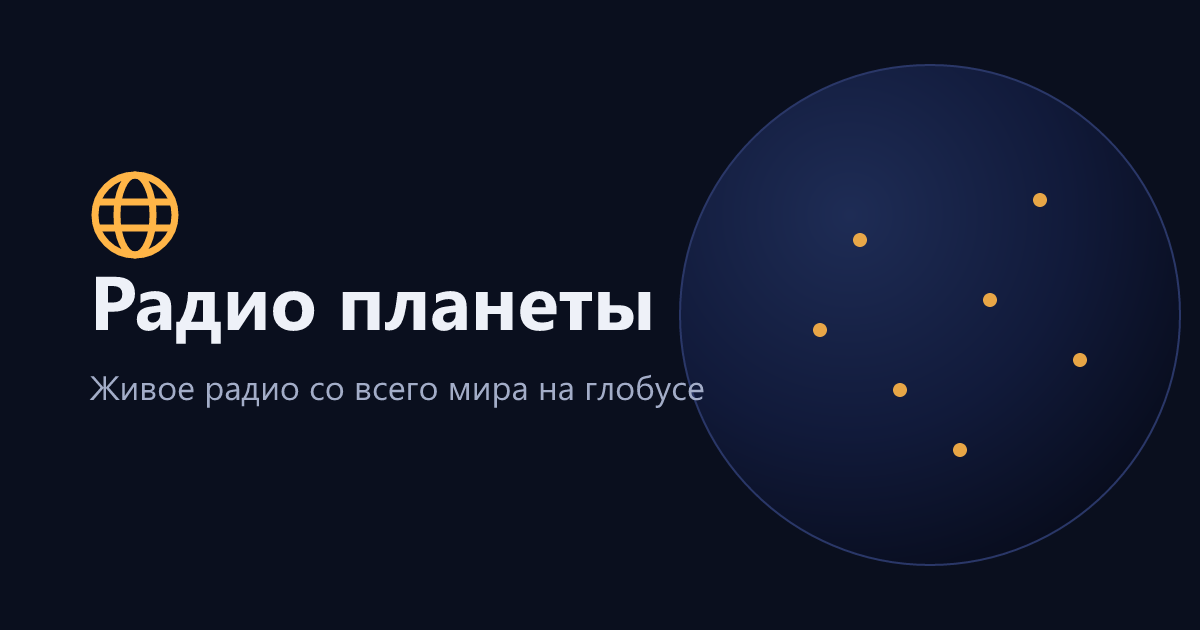
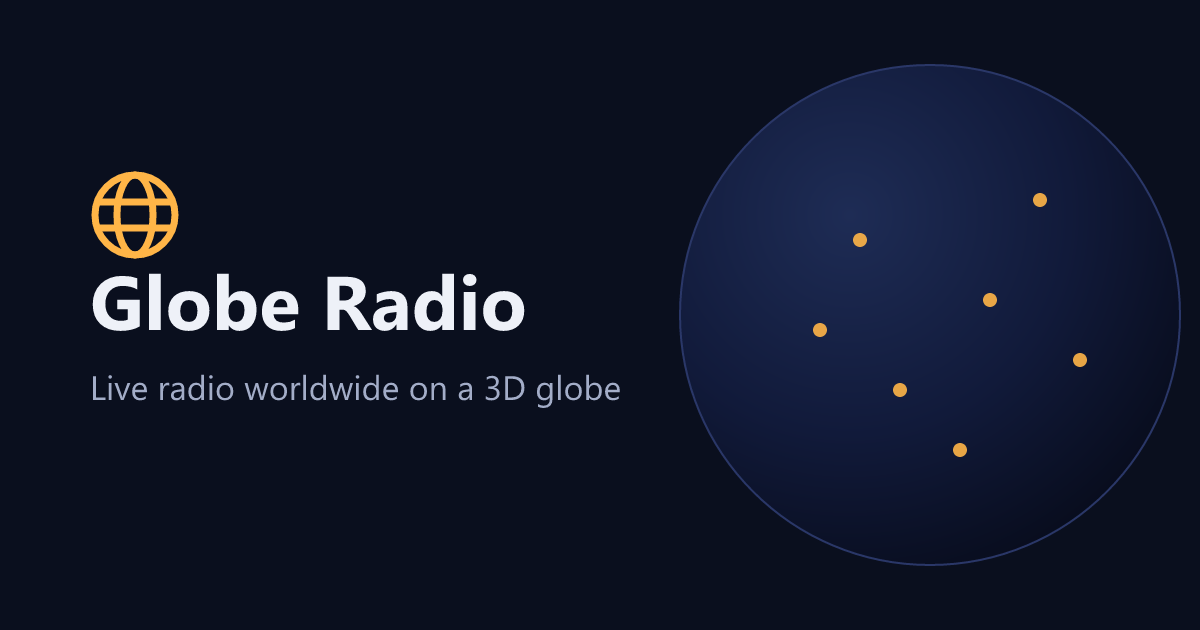
feat(i18n): English-only production version (Globe Radio)

Changed region(s): [[0.0617, 0.4222, 0.555, 0.5429], [0.0617, 0.573, 0.5858, 0.6635]]

diff --git a/index.html b/index.html
@@ -1,5 +1,5 @@
 <!doctype html>
-<html lang="ru" dir="ltr">
+<html lang="en" dir="ltr">
 <head>
   <meta charset="utf-8">
   <meta name="viewport" content="width=device-width, initial-scale=1, interactive-widget=resizes-content">
@@ -10,11 +10,11 @@
   <meta name="mobile-web-app-capable" content="yes">
   <meta name="apple-mobile-web-app-capable" content="yes">
   <meta name="apple-mobile-web-app-status-bar-style" content="black-translucent">
-  <meta name="apple-mobile-web-app-title" content="Радио планеты">
-  <meta name="description" content="Крутите глобус и слушайте живое радио из любого города мира">
+  <meta name="apple-mobile-web-app-title" content="Globe Radio">
+  <meta name="description" content="Spin a 3D globe and listen to 37,000 live radio stations from every country and city in the world. Free, no sign-up: tap a dot and the stream starts.">
   <meta property="og:type" content="website">
-  <meta property="og:title" content="Радио планеты">
-  <meta property="og:description" content="Крутите глобус и слушайте живое радио из любого города мира">
+  <meta property="og:title" content="Globe Radio — Live Radio Stations Worldwide on a 3D Globe">
+  <meta property="og:description" content="Spin a 3D globe and listen to 37,000 live radio stations from every country and city in the world. Free, no sign-up: tap a dot and the stream starts.">
   <meta property="og:image" content="%VITE_SITE_URL%/og.png">
   <meta property="og:image:width" content="1200">
   <meta property="og:image:height" content="630">
@@ -22,7 +22,7 @@
   <link rel="preconnect" href="https://fonts.googleapis.com">
   <link rel="preconnect" href="https://fonts.gstatic.com" crossorigin>
   <link rel="stylesheet" href="https://fonts.googleapis.com/css2?family=Unbounded:wght@500;700&family=Golos+Text:wght@400;500;600&display=swap">
-  <title></title>
+  <title>Globe Radio — Listen to Live Radio Stations Worldwide on a 3D Globe</title>
 </head>
 <body>
   <div id="app"></div>

diff --git a/tests/en-locale.test.ts b/tests/en-locale.test.ts
@@ -1,0 +1,32 @@
+import { readFileSync } from 'node:fs';
+import { expect, test } from 'vitest';
+import en from '../locales/en.json';
+import ru from '../locales/ru.json';
+import { DEFAULT_LOCALE, SUPPORTED_LOCALES } from '../src/app/config';
+import { createI18n } from '../src/i18n/i18n';
+
+const CYRILLIC = /[Ѐ-ӿ]/;
+
+test('production is English only', () => {
+  expect([...SUPPORTED_LOCALES]).toEqual(['en']);
+  expect(DEFAULT_LOCALE).toBe('en');
+});
+
+test('en.json has every key of ru.json and no Cyrillic', () => {
+  expect(Object.keys(en).sort()).toEqual(Object.keys(ru).sort());
+  expect(CYRILLIC.test(JSON.stringify(en))).toBe(false);
+  expect(en['app.name']).toBe('Globe Radio');
+});
+
+test('English plurals', () => {
+  const i18n = createI18n('en', en);
+  expect(i18n.t('stations.count', { count: 1 })).toBe('1 station');
+  expect(i18n.t('stations.count', { count: 2 })).toBe('2 stations');
+  expect(i18n.t('learn.countries', { count: 21 })).toBe('21 countries');
+});
+
+test('index.html is English: lang, no Cyrillic', () => {
+  const html = readFileSync('index.html', 'utf8');
+  expect(html).toContain('<html lang="en"');
+  expect(CYRILLIC.test(html)).toBe(false);
+});

diff --git a/src/app/main.ts b/src/app/main.ts
@@ -1,4 +1,4 @@
-import ru from '../../locales/ru.json';
+import en from '../../locales/en.json';
 import { loadPlaces } from '../data/places';
 import { createShardStore } from '../data/shards';
 import { applyDirection, createI18n, resolveLocale, type Messages } from '../i18n/i18n';
@@ -29,7 +29,7 @@ import { showActionToast } from '../ui/toast';
 import { startApp } from './app';
 import { DEFAULT_LOCALE, SUPPORTED_LOCALES } from './config';
 
-const catalogs: Record<string, Messages> = { ru };
+const catalogs: Record<string, Messages> = { en };
 const storage = safeStorage();
 const locale = resolveLocale(location.search, storage, navigator.languages, SUPPORTED_LOCALES, DEFAULT_LOCALE);
 const i18n = createI18n(locale, catalogs[locale]);
@@ -57,7 +57,7 @@ const card = createPlaceCard(refs.placeCard, refs.stage, {
   i18n,
   storage,
   flagUrl,
-  findArticle: (info) => findArticle(info, fetch, wikiCache),
+  findArticle: (info) => findArticle(info, fetch, wikiCache, i18n.locale === 'ru' ? 'ru' : 'en'),
   now: () => new Date(),
   userOffset: () => -new Date().getTimezoneOffset(),
 });

diff --git a/scripts/og-image.ts b/scripts/og-image.ts
@@ -12,8 +12,8 @@ const svg = `<svg xmlns="http://www.w3.org/2000/svg" width="1200" height="630" v
   <g transform="translate(90 170)" fill="none" stroke="#FFB547" stroke-width="7" stroke-linecap="round">
     <circle cx="45" cy="45" r="40"/><ellipse cx="45" cy="45" rx="18" ry="40"/><path d="M8 32h74M8 58h74"/>
   </g>
-  <text x="90" y="330" font-family="Segoe UI, Arial, sans-serif" font-size="76" font-weight="700" fill="#EEF1F8">Радио планеты</text>
-  <text x="90" y="400" font-family="Segoe UI, Arial, sans-serif" font-size="34" fill="#A3ADC8">Живое радио со всего мира на глобусе</text>
+  <text x="90" y="330" font-family="Segoe UI, Arial, sans-serif" font-size="76" font-weight="700" fill="#EEF1F8">Globe Radio</text>
+  <text x="90" y="400" font-family="Segoe UI, Arial, sans-serif" font-size="34" fill="#A3ADC8">Live radio worldwide on a 3D globe</text>
 </svg>`;
 
 const png = new Resvg(svg, { font: { loadSystemFonts: true } }).render().asPng();

diff --git a/src/place-card/wiki.ts b/src/place-card/wiki.ts
@@ -68,7 +68,16 @@ async function ruTitleFor(enTitle: string, fetchFn: typeof fetch, cache: WikiCac
   return ru;
 }
 
-export async function findArticle(info: Pick<PlaceInfo, 'wikiRu' | 'wikiEn'>, fetchFn: typeof fetch, cache: WikiCache): Promise<WikiResult> {
+export async function findArticle(info: Pick<PlaceInfo, 'wikiRu' | 'wikiEn'>, fetchFn: typeof fetch, cache: WikiCache, prefer: Lang = 'ru'): Promise<WikiResult> {
+  if (prefer === 'en') {
+    if (!info.wikiEn) return { summary: null, link: null };
+    try {
+      const s = await summary('en', info.wikiEn, fetchFn, cache);
+      return s ? { summary: s, link: s.url } : { summary: null, link: articleUrl('en', info.wikiEn) };
+    } catch {
+      return { summary: null, link: articleUrl('en', info.wikiEn) };
+    }
+  }
   let fallback: string | null = info.wikiRu ? articleUrl('ru', info.wikiRu) : info.wikiEn ? articleUrl('en', info.wikiEn) : null;
   const tried = new Set<string>();
   const tryRu = async (title: string) => {

diff --git a/tests/wiki.test.ts b/tests/wiki.test.ts
@@ -123,3 +123,11 @@ test('Wikimedia thumbnails from any wikimedia.org host are accepted (thumb.wikim
 test('Russian stress marks are removed from the text', () => {
   expect(trimSentences('Лиссабо́н — столица. Герма́ния рядом.')).toBe('Лиссабон — столица. Германия рядом.');
 });
+
+test('English interface: the English article first, no Russian lookup', async () => {
+  const f = wikiFetch({ 'en.wikipedia.org/api/rest_v1/page/summary/Lisbon': () => json(summary('Lisbon', 'Lisbon is the capital of Portugal.')) });
+  const r = await findArticle({ wikiRu: 'Лиссабон', wikiEn: 'Lisbon' }, f, createWikiCache(null), 'en');
+  expect(r.summary).toMatchObject({ lang: 'en', title: 'Lisbon' });
+  expect(r.link).toBe(articleUrl('en', 'Lisbon'));
+  expect((f.mock.calls as unknown[][]).some(([u]) => String(u).includes('ru.wikipedia.org'))).toBe(false);
+});

diff --git a/src/app/app.ts b/src/app/app.ts
@@ -464,7 +464,8 @@ export async function startApp(d: AppDeps): Promise<AppHandle> {
   function applyLearn(code: string | null) {
     learnCode = code;
     const entry = code ? languages.find((e) => e.code === code) ?? null : null;
-    langPrep = entry ? prepositional(lowerFirst(entry.name, i18n.locale)) : '';
+    // Russian needs the prepositional case; other languages use the language name as is ("in Spanish").
+    langPrep = entry ? (i18n.locale === 'ru' ? prepositional(lowerFirst(entry.name, i18n.locale)) : entry.name) : '';
     if (base) layer = layered(base, code ? createClusterer(places, (p) => p.langs?.[code] ?? 0) : null);
     view?.refresh();
     picker?.update();

diff --git a/src/pwa/manifest.ts b/src/pwa/manifest.ts
@@ -1,14 +1,14 @@
-import ru from '../../locales/ru.json';
+import en from '../../locales/en.json';
 
 export const THEME_COLOR = '#0A0F1E';
 
-// Web app manifest; the app name comes from the one config (locales/ru.json, key app.name).
+// Web app manifest; the app name comes from the one config (locales/en.json, key app.name).
 export function buildManifest(base: string) {
   return {
-    name: ru['app.name'],
-    short_name: ru['app.name'],
-    description: ru['app.description'],
-    lang: 'ru',
+    name: en['app.name'],
+    short_name: en['app.name'],
+    description: en['app.description'],
+    lang: 'en',
     dir: 'ltr' as const,
     start_url: base,
     scope: base,

diff --git a/tests/pwa-manifest.test.ts b/tests/pwa-manifest.test.ts
@@ -7,7 +7,7 @@ const pngSize = (path: string) => { const b = readFileSync(path); return [b.read
 test('manifest: name from the one config, standalone, dark theme, scope = site path', () => {
   const m = buildManifest('/globe-radio/');
   expect(m).toMatchObject({
-    name: 'Радио планеты', short_name: 'Радио планеты', lang: 'ru', display: 'standalone', orientation: 'portrait',
+    name: 'Globe Radio', short_name: 'Globe Radio', lang: 'en', display: 'standalone', orientation: 'portrait',
     start_url: '/globe-radio/', scope: '/globe-radio/', theme_color: THEME_COLOR, background_color: THEME_COLOR,
   });
   expect(THEME_COLOR).toBe('#0A0F1E');

diff --git a/tests/app.test.ts b/tests/app.test.ts
@@ -803,3 +803,11 @@ test('review: picking the playing place or station again reveals the swiped-away
   await app.selectPlace(lisbon);
   expect(reveal).toHaveBeenCalled();
 });
+
+test('English interface: learn mode says "Next in English" (no Russian cases)', async () => {
+  const en = (await import('../locales/en.json')).default;
+  const i18nEn = createI18n('en', en);
+  const app = await startApp({ ...deps, i18n: i18nEn, refs: renderShell(document.getElementById('app')!, i18nEn) });
+  app.learn('en');
+  expect(document.querySelector('.pb__next')!.textContent).toBe('Next in English');
+});

diff --git a/tests/place-card.test.ts b/tests/place-card.test.ts
@@ -228,3 +228,11 @@ test('review: reveal brings the swiped-away phone sheet back', async () => {
   card.reveal();
   expect(sheet.hidden).toBe(true);
 });
+
+test('English interface: an English article gets no "article in English" note', async () => {
+  const en = (await import('../locales/en.json')).default;
+  const card = createPlaceCard(panel, stage, { ...deps, i18n: createI18n('en', en), findArticle: vi.fn(async () => wiki('A town.', 'en')) });
+  card.show({ place: lisbon, station: st(), info });
+  await flush();
+  expect(q('.pc__note').hidden).toBe(true);
+});

diff --git a/src/place-card/place-card.ts b/src/place-card/place-card.ts
@@ -113,7 +113,8 @@ export function createPlaceCard(panel: HTMLElement, sheetHost: HTMLElement, deps
     el.wiki.hidden = !s && !r.link;
     el.photo.hidden = !s?.image;
     if (s?.image) el.photo.src = s.image;
-    el.note.hidden = s?.lang !== 'en';
+    // Note only when the article is in another language than the interface.
+    el.note.hidden = !s || s.lang === i18n.locale;
     el.text.hidden = !s;
     el.text.textContent = s?.text ?? '';
     el.sText.textContent = s?.text ?? '';
